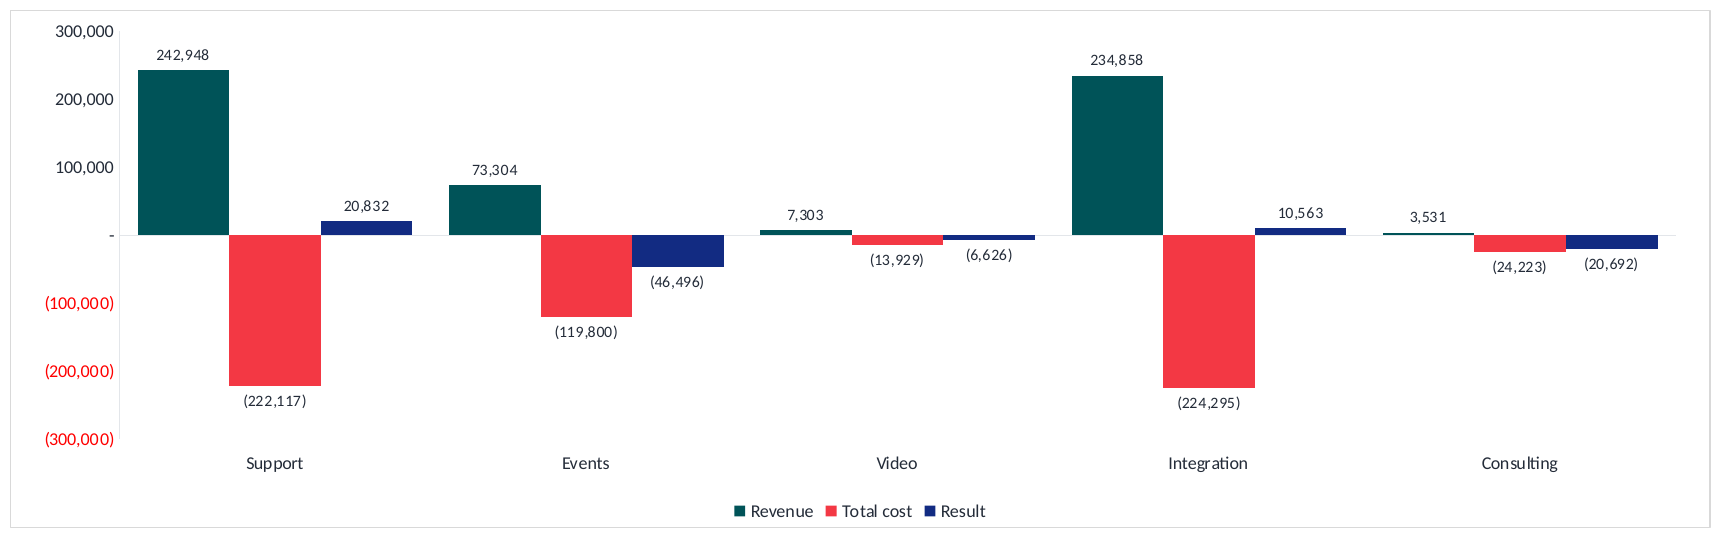
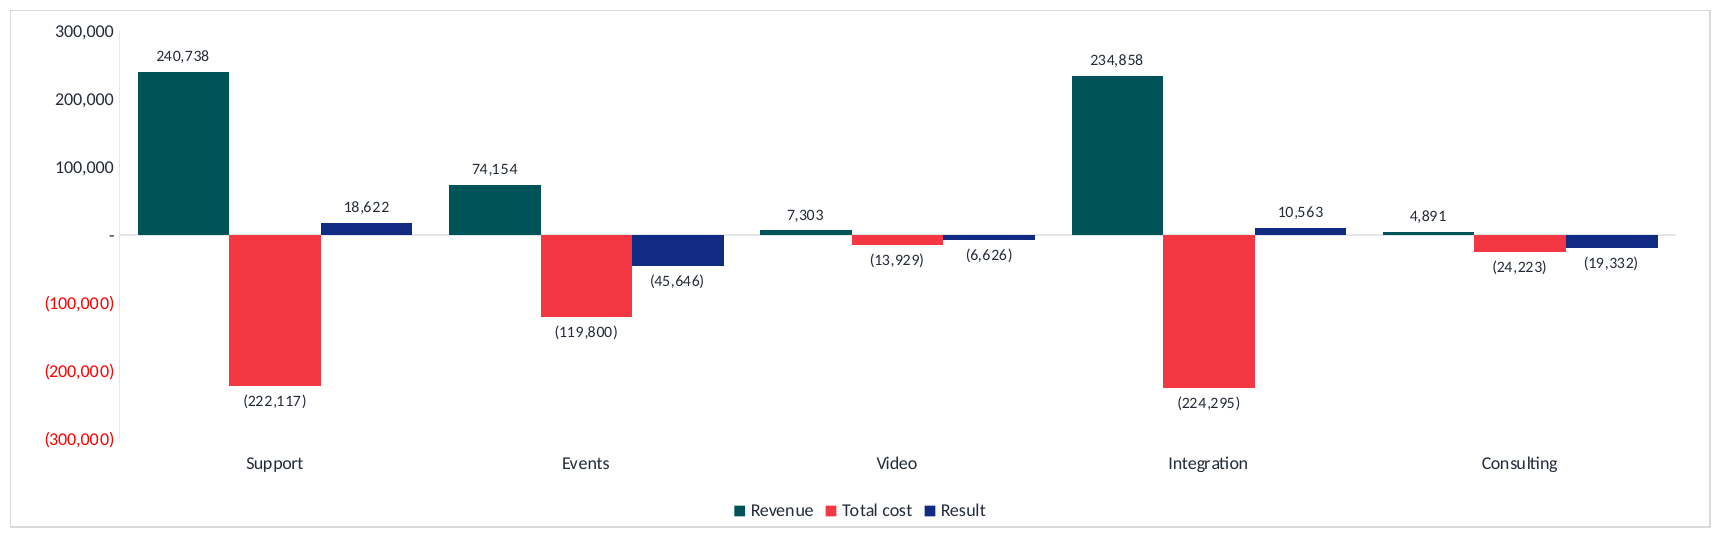
Read the quarterly commentary from the pack, never type it
Every figure in the quarterly slides was typed in when the slide was
built. When the pack was re-pasted from Xero they went stale silently,
which is the failure that let wrong numbers sit in the deck.

qcommentary.py rewrites all of it from the controller pack at the moment
it runs. Nothing is typed. It covers the executive summary cards and
strip, the three slides with a commentary band, and the four full height
tables whose text lives in the speaker notes.

Run it after any pack change and the deck follows.

Claude-Session: https://claude.ai/code/session_01CVBAFohBCYXt1ufjTVDiZj

diff --git a/deck/edits/qcommentary.py b/deck/edits/qcommentary.py
@@ -1,0 +1,243 @@
+"""Rewrite the commentary on every quarterly slide, from the pack.
+
+The figures in these slides were typed in by hand when each slide was built.
+When the pack was re-pasted from Xero they went stale, silently, which is
+exactly the failure this avoids. Nothing here is typed. Every number is read
+from the controller pack at the moment the slide is written.
+
+Three kinds of slide:
+  the executive summary, which is cards and a strip
+  the ordinary chart pages, which have a commentary strip
+  the full height tables, which have no strip, so the text goes in the notes
+"""
+import copy, sys, os
+import openpyxl
+from pptx import Presentation
+from pptx.util import Pt
+
+sys.path.insert(0, os.path.dirname(os.path.abspath(__file__)))
+from addslide import balance, write, SIZE
+
+PACK = '/home/user/Claude/pack/CTS Financial Controller Pack - v20.xlsx'
+INC = {'Support': 41, 'Events': 8, 'Video': 16,
+       'Integration': 25, 'Consulting': 33, 'Total': 6}
+COS = {'Support': 130, 'Events': 61, 'Video': 78,
+       'Integration': 96, 'Consulting': 113, 'Total': 59}
+GROUP_COL = {'Production': 2, 'Consulting': 3, 'Support': 4, 'CTS': 6}
+GROUP_ROW = {'income': 272, 'cos': 274, 'oh': 275, 'gp': 277,
+             'gpc': 278, 'ebitda': 279, 'net': 285, 'netc': 286}
+
+
+def k(v):
+    n = round(v / 1000)
+    return ('$(%s)k' % format(abs(n), ',')) if n < 0 else ('$%sk' % format(n, ','))
+
+
+def d(v):
+    return ('$(%s)' % format(abs(round(v)), ',')) if v < 0 else ('$%s' % format(round(v), ','))
+
+
+def figures():
+    wb = openpyxl.load_workbook(PACK, data_only=True)
+    sm, pd = wb['Summary'], wb['P&L by Dept']
+    f = {'dept': {}, 'grp': {}}
+    for name in INC:
+        rev = sm.cell(INC[name], 5).value
+        bud = sm.cell(INC[name], 7).value or 0
+        gp = rev + sm.cell(COS[name], 5).value
+        f['dept'][name] = {'rev': rev, 'bud': bud, 'gp': gp,
+                           'gm': gp / rev * 100 if rev else 0}
+    for name, col in GROUP_COL.items():
+        f['grp'][name] = {key: pd.cell(row, col).value
+                          for key, row in GROUP_ROW.items()}
+    f['oh'] = abs(sm.cell(164, 5).value)
+    f['oh_b'] = abs(sm.cell(164, 7).value)
+    f['gp'] = sm.cell(173, 5).value
+    f['gpc'] = sm.cell(174, 5).value
+    f['gpc_b'] = sm.cell(174, 7).value
+    f['eb'] = sm.cell(175, 5).value
+    f['eb_b'] = sm.cell(175, 7).value
+    f['net'] = sm.cell(181, 5).value
+    f['net_b'] = sm.cell(181, 7).value
+    f['breakeven'] = f['oh'] / f['gpc'] if f['gpc'] else 0
+    return f
+
+
+def build_text(f):
+    t, g = f['dept'], f['grp']
+    short = t['Total']['bud'] - t['Total']['rev']
+    two_down = abs(g['Production']['net']) + abs(g['Consulting']['net'])
+
+    summary = [
+        'Revenue for the quarter was %s against a budget of %s, short by %s or %.0f%%.'
+        % (d(t['Total']['rev']), d(t['Total']['bud']), d(short), short / t['Total']['bud'] * 100),
+        'Gross profit was %s, a margin of %.1f%% against the %.1f%% budgeted.'
+        % (d(f['gp']), f['gpc'] * 100, f['gpc_b'] * 100),
+        'Overheads were %s, which is %s under budget.' % (d(f['oh']), d(f['oh_b'] - f['oh'])),
+        'EBITDA was %s against a budget of %s.' % (d(f['eb']), d(f['eb_b'])),
+        'The quarter closed as a net loss of %s, against a budgeted profit of %s.'
+        % (d(abs(f['net'])), d(f['net_b'])),
+    ]
+    group = [
+        'Revenue for the quarter was %s and gross profit %s, a margin of %.1f%%.'
+        % (d(t['Total']['rev']), d(f['gp']), f['gpc'] * 100),
+        'Support is the only reporting group above the line, earning %s on a %.1f%% net margin.'
+        % (d(g['Support']['net']), g['Support']['netc'] * 100),
+        'Production lost %s across the three months and Consulting lost %s.'
+        % (d(abs(g['Production']['net'])), d(abs(g['Consulting']['net']))),
+        'Group EBITDA was %s and the quarter closed as a net loss of %s.'
+        % (d(f['eb']), d(abs(f['net']))),
+        'Support carries the quarter. The other two groups are %s down between them.'
+        % d(two_down),
+    ]
+    pl = [
+        'Support is the only group that earns its overhead back, at %s net on a %.1f%% margin.'
+        % (d(g['Support']['net']), g['Support']['netc'] * 100),
+        'Production holds the best gross margin at %.1f%%, then loses it to %s of overhead.'
+        % (g['Production']['gpc'] * 100, d(abs(g['Production']['oh']))),
+        'Consulting keeps only %.1f%% at the gross line, the weakest of the three.'
+        % (g['Consulting']['gpc'] * 100),
+        'Production and Consulting are %s down between them for the quarter.' % d(two_down),
+        'Group EBITDA was %s and the quarter closed as a net loss of %s.'
+        % (d(f['eb']), d(abs(f['net']))),
+    ]
+    ytd = [
+        'Support billed %s year to date, the largest of the five departments.' % d(t['Support']['rev']),
+        'Integration finished the quarter at %s and Events at %s.'
+        % (d(t['Integration']['rev']), d(t['Events']['rev'])),
+        'Integration started the year behind Events and overtook it on project completion.',
+        'Video billed %s year to date and Consulting %s.'
+        % (d(t['Video']['rev']), d(t['Consulting']['rev'])),
+        'The five together make the %s of year to date revenue.' % d(t['Total']['rev']),
+    ]
+    return {'summary': summary, 'group': group, 'pl': pl, 'ytd': ytd}
+
+
+def grp_notes(f, name, label):
+    g = f['grp'][name]
+    return ('%s for the quarter, month by month and in total.\n\n'
+            'Revenue was %s and gross profit %s, a margin of %.1f per cent.\n\n'
+            'Overhead of %s leaves %s, a net margin of %.1f per cent.\n\n'
+            'Figures are read from the controller pack and tie to Xero.'
+            % (label, d(g['income']), d(g['gp']), g['gpc'] * 100,
+               d(abs(g['oh'])), d(g['net']), g['netc'] * 100))
+
+
+TARGETS = {
+    'results by reporting group, first quarter fy2027': 'group',
+    'profit and loss by reporting group, first quarter fy2027': 'pl',
+    'year to date revenue by department': 'ytd',
+}
+NOTE_ONLY = {
+    'profit and loss summary, first quarter fy2027': 'summary',
+    'production profit and loss, first quarter fy2027': ('Production', 'Production'),
+    'consulting profit and loss, first quarter fy2027': ('Consulting', 'Consulting'),
+    'support profit and loss, first quarter fy2027': ('Support', 'Support'),
+}
+
+
+def title_of(slide):
+    for sh in slide.shapes:
+        if sh.name == 'Text 1' and sh.has_text_frame:
+            return sh.text_frame.text.strip().split('\n')[0]
+    return ''
+
+
+def setext(by, name, text):
+    sh = by.get(name)
+    if sh is None or not sh.has_text_frame:
+        return
+    runs = sh.text_frame.paragraphs[0].runs
+    if not runs:
+        return
+    runs[0].text = text
+    for extra in runs[1:]:
+        extra.text = ''
+
+
+CARDS = {
+    'Support':     ('Text 4', 'Text 6', 'Text 7', 'Text 8'),
+    'Events':      ('Text 11', 'Text 13', 'Text 14', 'Text 15'),
+    'Video':       ('Text 18', 'Text 20', 'Text 21', 'Text 22'),
+    'Integration': ('Text 25', 'Text 27', 'Text 28', 'Text 29'),
+    'Consulting':  ('Text 32', 'Text 34', 'Text 35', 'Text 36'),
+    'Total':       ('Total text 1', 'Total text 3', 'Total text 4', 'Total text 5'),
+}
+STRIP = [('Text 39', 'Text 40'), ('Text 42', 'Text 43'), ('Text 45', 'Text 46'),
+         ('Text 48', 'Text 49'), ('Text 51', 'Text 52')]
+
+
+def main(src, out):
+    f = figures()
+    text = build_text(f)
+    pres = Presentation(src)
+    done = 0
+    for i, s in enumerate(pres.slides, 1):
+        t = title_of(s).lower()
+        by = {sh.name: sh for sh in s.shapes}
+
+        if t == 'performance summary, first quarter fy2027':
+            for name, (big, marg, third, budg) in CARDS.items():
+                e = f['dept'][name]
+                setext(by, big, k(e['rev']))
+                setext(by, marg, '%.0f%% gross margin' % e['gm'])
+                setext(by, third, '%s gross profit' % k(e['gp']))
+                diff = e['rev'] - e['bud']
+                setext(by, budg, ('Ahead of budget by %s' if diff >= 0 else 'Behind budget by %s') % k(abs(diff)))
+            vals = [(k(f['dept']['Total']['rev']), 'budget %s' % k(f['dept']['Total']['bud'])),
+                    ('%.1f%%' % (f['gpc'] * 100), 'budget %.1f%%' % (f['gpc_b'] * 100)),
+                    (k(f['oh']), 'budget %s' % k(f['oh_b'])),
+                    (k(f['eb']), 'budget %s' % k(f['eb_b'])),
+                    (k(f['breakeven']), 'running at %s' % k(f['dept']['Total']['rev']))]
+            for (v, sub), (vb, sb) in zip(vals, STRIP):
+                setext(by, vb, v); setext(by, sb, sub)
+            g = f['grp']
+            short = f['dept']['Total']['bud'] - f['dept']['Total']['rev']
+            para = ('The quarter in summary. Revenue was %s against a budget of %s, short by %s '
+                    'or %.0f%%. Almost all of the shortfall is Consulting at %s and Integration '
+                    'at %s. Support is the only reporting group that covered its allocated '
+                    'overhead, earning %s, while Production lost %s and Consulting %s. At the '
+                    'quarter gross margin of %.1f%%, revenue of approximately %s is required to '
+                    'cover overheads of %s, against the %s billed.'
+                    % (k(f['dept']['Total']['rev']), k(f['dept']['Total']['bud']), k(short),
+                       short / f['dept']['Total']['bud'] * 100,
+                       k(f['dept']['Consulting']['bud'] - f['dept']['Consulting']['rev']),
+                       k(f['dept']['Integration']['bud'] - f['dept']['Integration']['rev']),
+                       k(g['Support']['net']), k(abs(g['Production']['net'])),
+                       k(abs(g['Consulting']['net'])), f['gpc'] * 100, k(f['breakeven']),
+                       k(f['oh']), k(f['dept']['Total']['rev'])))
+            setext(by, 'Text 53', para)
+            s.notes_slide.notes_text_frame.text = para
+            print('  %-3d executive summary, cards and strip rewritten' % i)
+            done += 1
+            continue
+
+        if t in TARGETS:
+            items = text[TARGETS[t]]
+            cols = list(balance(items, 4.05))
+            for name, part in (('Text 5', cols[0]), ('Text 5b', cols[1])):
+                box = by.get(name)
+                if box is None or not part:
+                    continue
+                write(box, part)
+                for para in box.text_frame.paragraphs:
+                    for r in para.runs:
+                        r.font.size = Pt(SIZE)
+            print('  %-3d %s' % (i, title_of(s)))
+            done += 1
+            continue
+
+        if t in NOTE_ONLY:
+            spec = NOTE_ONLY[t]
+            body = ('\n'.join(text['summary']) if spec == 'summary'
+                    else grp_notes(f, spec[0], spec[1]))
+            s.notes_slide.notes_text_frame.text = body
+            print('  %-3d %s  (notes)' % (i, title_of(s)))
+            done += 1
+
+    pres.save(out)
+    print('%d slides rewritten from the pack' % done)
+
+
+if __name__ == '__main__':
+    main(sys.argv[1], sys.argv[2])
